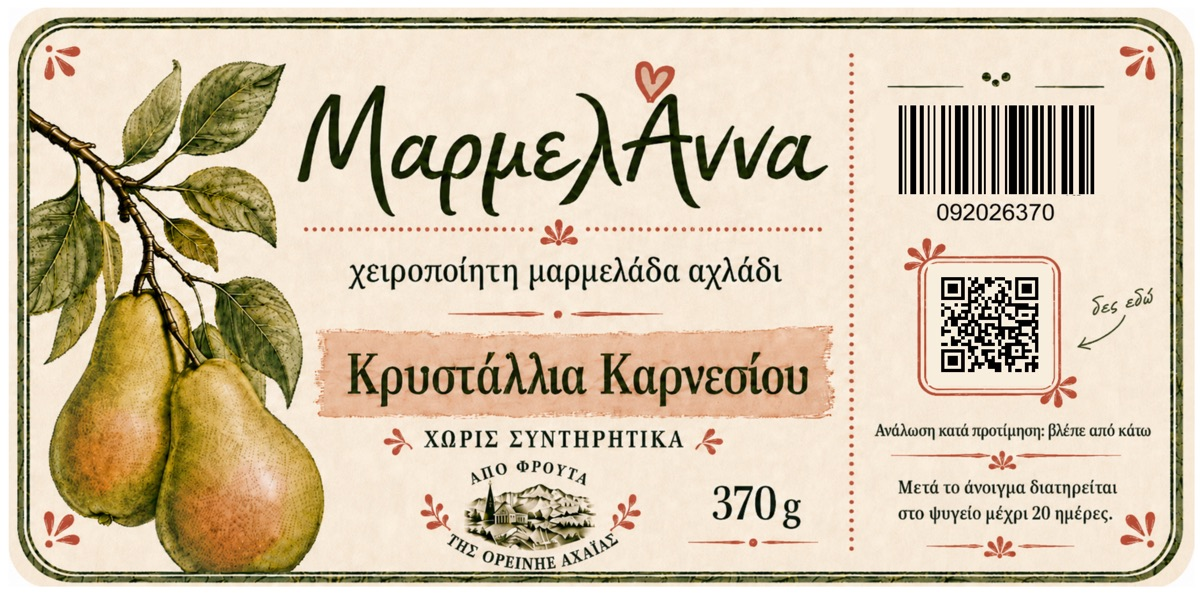
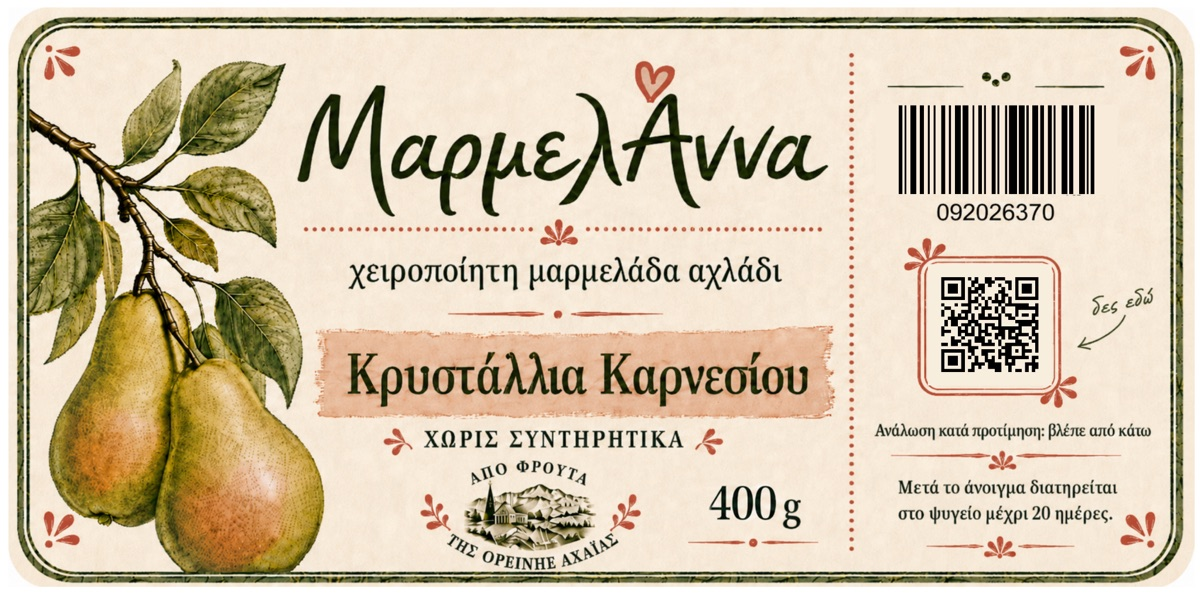
Ενημερωμένες ετικέτες: 370 g → 400 g και στα τέσσερα προϊόντα
Νέες εικόνες από τον γονικό φάκελο telikes (έκδοση 400 g) και αλλαγή του
βάρους στις κάρτες και στα alt κειμένων. Ελέγχθηκε ότι δεν έμεινε καμία
αναφορά σε 370 στο site.

Ο υποφάκελος 370/ κρατάει πλέον τις παλιές· σημειώθηκε στο images/README.md
ποιος φάκελος είναι ο τρέχων, γιατί τα ονόματα αρχείων είναι ίδια και στους
δύο και είναι εύκολο να πάρει κανείς λάθος έκδοση.

diff --git a/index.html b/index.html
@@ -220,7 +220,7 @@
       <ul class="cards">
         <li class="card">
           <figure class="photo photo--label ratio-2x1">
-            <img src="/images/label-kontoules.jpg" alt="Ετικέτα ΜαρμελΆννα: χειροποίητη μαρμελάδα αχλάδι από Κοντούλες Καρνεσίου, 370 g"
+            <img src="/images/label-kontoules.jpg" alt="Ετικέτα ΜαρμελΆννα: χειροποίητη μαρμελάδα αχλάδι από Κοντούλες Καρνεσίου, 400 g"
                  width="1200" height="600" loading="lazy" decoding="async">
           </figure>
           <p class="card__kicker">Μαρμελάδα αχλάδι</p>
@@ -229,13 +229,13 @@
           <p class="card__text">Ποικιλία αχλαδιού από το Καρνέσι. Καλοκαιρινή συγκομιδή.</p>
           <p class="card__meta">
             <span class="badge badge--limited">Περιορισμένη διαθεσιμότητα</span>
-            <span>370 g</span>
+            <span>400 g</span>
           </p>
         </li>
 
         <li class="card">
           <figure class="photo photo--label ratio-2x1">
-            <img src="/images/label-krystallia.jpg" alt="Ετικέτα ΜαρμελΆννα: χειροποίητη μαρμελάδα αχλάδι από Κρυστάλλια Καρνεσίου, 370 g"
+            <img src="/images/label-krystallia.jpg" alt="Ετικέτα ΜαρμελΆννα: χειροποίητη μαρμελάδα αχλάδι από Κρυστάλλια Καρνεσίου, 400 g"
                  width="1200" height="600" loading="lazy" decoding="async">
           </figure>
           <p class="card__kicker">Μαρμελάδα αχλάδι</p>
@@ -244,13 +244,13 @@
           <p class="card__text">Ποικιλία αχλαδιού από το Καρνέσι. Καλοκαιρινή συγκομιδή (τέλος καλοκαιριού).</p>
           <p class="card__meta">
             <span class="badge badge--limited">Περιορισμένη διαθεσιμότητα</span>
-            <span>370 g</span>
+            <span>400 g</span>
           </p>
         </li>
 
         <li class="card">
           <figure class="photo photo--label ratio-2x1">
-            <img src="/images/label-vanilies.jpg" alt="Ετικέτα ΜαρμελΆννα: χειροποίητη μαρμελάδα βανίλια από Λευκές Βανίλιες Καρνεσίου, 370 g"
+            <img src="/images/label-vanilies.jpg" alt="Ετικέτα ΜαρμελΆννα: χειροποίητη μαρμελάδα βανίλια από Λευκές Βανίλιες Καρνεσίου, 400 g"
                  width="1200" height="600" loading="lazy" decoding="async">
           </figure>
           <p class="card__kicker">Μαρμελάδα βανίλια</p>
@@ -259,14 +259,14 @@
           <p class="card__text">Ποικιλία βανίλιας από το Καρνέσι. Καλοκαιρινή συγκομιδή.</p>
           <p class="card__meta">
             <span class="badge badge--limited">Περιορισμένη διαθεσιμότητα</span>
-            <span>370 g</span>
+            <span>400 g</span>
           </p>
         </li>
 
         <li class="card">
           <figure class="photo photo--label ratio-2x1">
             <img src="/images/label-damaskina.jpg"
-                 alt="Ετικέτα ΜαρμελΆννα: χειροποίητη μαρμελάδα δαμάσκηνο από Δαμάσκηνα Καρνεσίου, 370 g"
+                 alt="Ετικέτα ΜαρμελΆννα: χειροποίητη μαρμελάδα δαμάσκηνο από Δαμάσκηνα Καρνεσίου, 400 g"
                  width="1200" height="600" loading="lazy" decoding="async">
           </figure>
           <p class="card__kicker">Μαρμελάδα δαμάσκηνο</p>
@@ -275,7 +275,7 @@
           <p class="card__text">Δαμάσκηνα από το Καρνέσι. Φθινοπωρινή συγκομιδή.</p>
           <p class="card__meta">
             <span class="badge badge--limited">Περιορισμένη διαθεσιμότητα</span>
-            <span>370 g</span>
+            <span>400 g</span>
           </p>
         </li>
       </ul>

diff --git a/images/README.md b/images/README.md
@@ -83,9 +83,13 @@ python3 tools/build-photos.py
   ```bash
   sips -Z 1200 -s format jpeg -s formatOptions 78 kontoyles.png --out label-kontoules.jpg
   ```
-  Χρησιμοποιούνται ως εικόνες προϊόντος στην αρχική. Η ετικέτα δαμάσκηνου
-  βρίσκεται στον υποφάκελο `370/` — στον γονικό φάκελο υπάρχει έκδοση **400 g**
-  που δεν ισχύει· πρόσεχε ποια παίρνεις. Αν τυπωθεί νέα ετικέτα,
+  Χρησιμοποιούνται ως εικόνες προϊόντος στην αρχική.
+
+  > **Πρόσεχε ποιον φάκελο παίρνεις.** Οι τρέχουσες είναι **400 g** και
+  > βρίσκονται στον γονικό `telikes gia diastasi 140x70/`. Ο υποφάκελος `370/`
+  > κρατάει τις παλιές των 370 g. Αν αλλάξει ξανά το βάρος, πρέπει να αλλάξει
+  > **και** η εικόνα **και** το κείμενο στην κάρτα — αλλιώς το site λέει άλλα
+  > γραμμάρια από την ετικέτα. Αν τυπωθεί νέα ετικέτα,
   ξαναπέρασέ τη από την ίδια εντολή.
 - `og-image.jpg` — 1200×630, η ετικέτα Κρυστάλλια με κρεμ γέμισμα:
   ```bash
